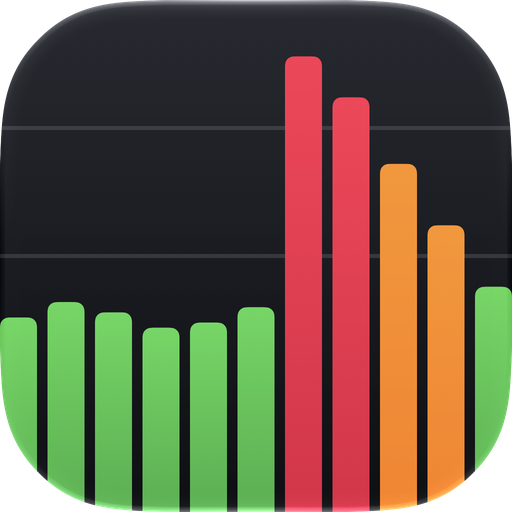
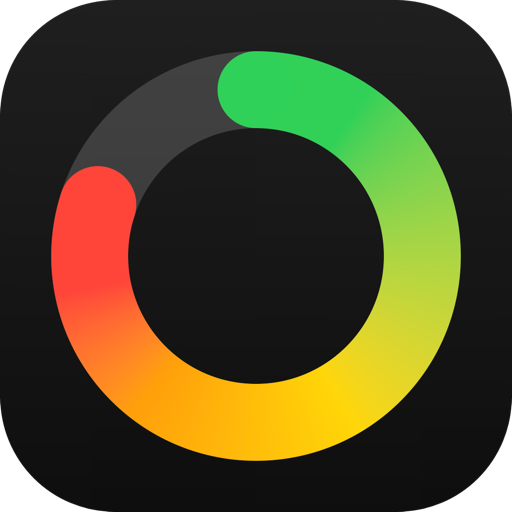
Grafium: новая иконка и скриншоты 1.2 на сайте
- иконка-кольцо из AppIcon.icon: фавиконки, icon-128/512, apple-touch-icon (квадратная, маску даёт iOS)
- og.png пересобран с новой иконкой; ?v=2 в og:image, чтобы соцсети не держали старое превью
- экраны дашборда, Alerts, графика и рабочего стола — из скриншотов App Store 1.2 (Alerts как в Mail)
- в push/stack старая иконка уведомлений заменена новой
- тексты: фильтры и непрочитанные в Alerts, тестовый алерт, кнопка в Пункте управления
- «22 of Grafana’s 25» → «22 of the 25 built-in Grafana»: марка не в притяжательной форме

diff --git a/grafium/index.html b/grafium/index.html
@@ -13,10 +13,10 @@
 	<meta property="og:url" content="https://znhv.dev/grafium/">
 	<meta property="og:title" content="Grafium — Grafana® dashboards & alerts, native on iPhone">
 	<meta property="og:description" content="Every panel drawn natively, read-only and private. Push alerts and widgets with Grafium Pro.">
-	<meta property="og:image" content="https://znhv.dev/grafium/img/og.png">
+	<meta property="og:image" content="https://znhv.dev/grafium/img/og.png?v=2">
 	<meta property="og:image:width" content="1200">
 	<meta property="og:image:height" content="630">
-	<meta property="og:image:alt" content="Grafium on iPhone: a Time Sensitive HighErrorRate alert over the Lock Screen">
+	<meta property="og:image:alt" content="Grafium on iPhone: a Time Sensitive HighErrorRate alert on the Lock Screen">
 	<meta name="twitter:card" content="summary_large_image">
 	<link rel="icon" type="image/png" sizes="32x32" href="/grafium/img/favicon-32.png">
 	<link rel="icon" type="image/png" sizes="64x64" href="/grafium/img/favicon-64.png">
@@ -48,7 +48,7 @@
 				"offers": { "@type": "Offer", "price": "0", "priceCurrency": "USD" },
 				"author": { "@type": "Person", "name": "Boris Zhenikhov", "url": "https://znhv.dev/" }
 			},
-			{"@type": "FAQPage", "@id": "https://znhv.dev/grafium/#faq", "mainEntity": [{"@type": "Question", "name": "Is there a Grafana app for iPhone?", "acceptedAnswer": {"@type": "Answer", "text": "Yes. Grafium is an independent, native iPhone app for Grafana dashboards and alerts, for iOS 26 or later. It connects to the Grafana servers you already run and draws every panel with native iOS charts instead of a web view. It is not made by Grafana Labs."}}, {"@type": "Question", "name": "Does Grafium work with self-hosted Grafana?", "acceptedAnswer": {"@type": "Answer", "text": "Yes, that is what it is built for. Grafium works with Grafana 9 or later that your iPhone can reach over HTTPS with a trusted certificate. Self-signed certificates are not supported."}}, {"@type": "Question", "name": "Can I get Grafana alerts as push notifications on iPhone?", "acceptedAnswer": {"@type": "Answer", "text": "Yes, with Grafium Pro. A firing alert arrives as a Time Sensitive notification, and when it resolves the same notification quietly updates. Push notifications need Grafana 12 or later; the app can set up the Grafium contact point on your server for you."}}, {"@type": "Question", "name": "Are there Grafana widgets for the iPhone Home Screen?", "acceptedAnswer": {"@type": "Answer", "text": "Yes, with Grafium Pro: a panel’s value or chart and your firing alerts on the Home Screen, the Lock Screen and in StandBy, plus a Grafium Alerts button in Control Center. Widgets refresh about every 15–60 minutes, as iOS allows, and show when they were last updated."}}, {"@type": "Question", "name": "Which panel types does Grafium show?", "acceptedAnswer": {"@type": "Answer", "text": "22 of Grafana’s 25 built-in visualizations, including time series, stat, gauge, bar gauge, bar chart, table, heatmap, logs, state timeline, status history, pie chart, geomap and text. A panel type it can’t draw shows its raw data instead."}}, {"@type": "Question", "name": "Will Grafium change anything on my Grafana server?", "acceptedAnswer": {"@type": "Answer", "text": "No. Grafium only reads: it never edits dashboards, panels or alert rules. The one change it can make is the one you ask for in Grafium Pro: creating, updating or removing its own contact point."}}, {"@type": "Question", "name": "How do I sign in to my Grafana?", "acceptedAnswer": {"@type": "Answer", "text": "With an API or service account token, a username and password, LDAP, JWT, an auth proxy, your organization’s SSO page, or anonymously. Credentials are stored in the iOS Keychain. To look around first, tap Try Demo: it opens live dashboards on Grafana Labs’ public demo server."}}, {"@type": "Question", "name": "Is my data private?", "acceptedAnswer": {"@type": "Answer", "text": "The free app has no backend, no account, no analytics and no tracking: requests go straight from your iPhone to your Grafana. Grafium Pro’s push relay stores only push tokens, a random channel ID and your subscription status, and never receives your server’s address, credentials, dashboards or metrics."}}, {"@type": "Question", "name": "How much does Grafium cost?", "acceptedAnswer": {"@type": "Answer", "text": "Grafium is free. Grafium Pro, with instant alerts and widgets, is $3.99 a month with a 1-week free trial or $29.99 a year with a 2-week free trial (US prices)."}}]}
+			{"@type": "FAQPage", "@id": "https://znhv.dev/grafium/#faq", "mainEntity": [{"@type": "Question", "name": "Is there a Grafana app for iPhone?", "acceptedAnswer": {"@type": "Answer", "text": "Yes. Grafium is an independent, native iPhone app for Grafana dashboards and alerts, for iOS 26 or later. It connects to the Grafana servers you already run and draws every panel with native iOS charts instead of a web view. It is not made by Grafana Labs."}}, {"@type": "Question", "name": "Does Grafium work with self-hosted Grafana?", "acceptedAnswer": {"@type": "Answer", "text": "Yes, that is what it is built for. Grafium works with Grafana 9 or later that your iPhone can reach over HTTPS with a trusted certificate. Self-signed certificates are not supported."}}, {"@type": "Question", "name": "Can I get Grafana alerts as push notifications on iPhone?", "acceptedAnswer": {"@type": "Answer", "text": "Yes, with Grafium Pro. A firing alert arrives as a Time Sensitive notification, and when it resolves the same notification quietly updates. Push notifications need Grafana 12 or later; the app can set up the Grafium contact point on your server for you."}}, {"@type": "Question", "name": "Are there Grafana widgets for the iPhone Home Screen?", "acceptedAnswer": {"@type": "Answer", "text": "Yes, with Grafium Pro: a panel’s value or chart and your firing alerts on the Home Screen, the Lock Screen and in StandBy, plus a Grafium Alerts button in Control Center. Widgets refresh about every 15–60 minutes, as iOS allows, and show when they were last updated."}}, {"@type": "Question", "name": "Which panel types does Grafium show?", "acceptedAnswer": {"@type": "Answer", "text": "22 of the 25 built-in Grafana visualizations, including time series, stat, gauge, bar gauge, bar chart, table, heatmap, logs, state timeline, status history, pie chart, geomap and text. A panel type it can’t draw shows its raw data instead."}}, {"@type": "Question", "name": "Will Grafium change anything on my Grafana server?", "acceptedAnswer": {"@type": "Answer", "text": "No. Grafium only reads: it never edits dashboards, panels or alert rules. The one change it can make is the one you ask for in Grafium Pro: creating, updating or removing its own contact point."}}, {"@type": "Question", "name": "How do I sign in to my Grafana?", "acceptedAnswer": {"@type": "Answer", "text": "With an API or service account token, a username and password, LDAP, JWT, an auth proxy, your organization’s SSO page, or anonymously. Credentials are stored in the iOS Keychain. To look around first, tap Try Demo: it opens live dashboards on Grafana Labs’ public demo server."}}, {"@type": "Question", "name": "Is my data private?", "acceptedAnswer": {"@type": "Answer", "text": "The free app has no backend, no account, no analytics and no tracking: requests go straight from your iPhone to your Grafana. Grafium Pro’s push relay stores only push tokens, a random channel ID and your subscription status, and never receives your server’s address, credentials, dashboards or metrics."}}, {"@type": "Question", "name": "How much does Grafium cost?", "acceptedAnswer": {"@type": "Answer", "text": "Grafium is free. Grafium Pro, with instant alerts and widgets, is $3.99 a month with a 1-week free trial or $29.99 a year with a 2-week free trial (US prices)."}}]}
 		]
 	}
 	</script>
@@ -76,7 +76,7 @@
 			<a class="badge" href="https://apps.apple.com/app/id6757076319"><img src="https://toolbox.marketingtools.apple.com/api/v2/badges/download-on-the-app-store/black/en-us" alt="Download on the App Store" width="156" height="52"></a>
 		</div>
 		<div class="stage">
-			<div class="phone"><img src="/grafium/img/dashboard.webp" alt="Grafium showing the Production Overview dashboard: requests, error rate and p99 latency" width="660" height="1434" fetchpriority="high"><img class="over push" src="/grafium/img/push.webp" alt="Time Sensitive notification: HighErrorRate, checkout-api 3.7% of requests fail (SLO 2%)" width="900" height="167" style="left: -18.5%; top: 6.98%; width: 137.0%"></div>
+			<div class="phone"><img src="/grafium/img/dashboard.webp" alt="Grafium showing the Production Overview dashboard: requests by service, requests, error rate and p99 latency" width="660" height="1434" fetchpriority="high"><img class="over push" src="/grafium/img/push.webp" alt="Time Sensitive notification: HighErrorRate, checkout-api 3.7% of requests fail (SLO 2%)" width="900" height="167" style="left: -18.5%; top: 6.98%; width: 137.0%"></div>
 		</div>
 	</section>
 
@@ -85,7 +85,7 @@
 			<div class="head">
 				<span class="eyebrow">The free app</span>
 				<h2>Everything on your dashboards. Nothing in a web view.</h2>
-				<p>Grafium draws 22 of Grafana’s 25 visualizations with native iOS charts, keeping the colors, units and thresholds from your dashboard.</p>
+				<p>Grafium draws 22 of the 25 built-in Grafana visualizations with native iOS charts, keeping the colors, units and thresholds from your dashboard.</p>
 			</div>
 			<div class="trio">
 				<figure>
@@ -94,9 +94,9 @@
 					<p>Open a chart full screen and drag across it to read the time and value under your finger.</p>
 				</figure>
 				<figure>
-					<div class="phone"><img src="/grafium/img/alerts.webp" alt="Firing alerts on Production EU and Production US: Kafka consumer lag, disk filling up, p99 latency, error rate" width="660" height="1434" loading="lazy"></div>
+					<div class="phone"><img src="/grafium/img/alerts.webp" alt="Firing alerts with Platform and Production labels: Kafka consumer lag, disk filling up, p99 latency, error rate, an expiring certificate" width="660" height="1434" loading="lazy"></div>
 					<h3>See what’s firing</h3>
-					<p>Firing and pending rules first, grouped by server, one tap from the panel behind them.</p>
+					<p>Firing and pending rules first, filtered by server, folder or group. New alerts stay marked until you open them.</p>
 				</figure>
 				<figure>
 					<div class="phone"><img src="/grafium/img/signin.webp" alt="Add Server form with the authentication type menu open" width="660" height="1434" loading="lazy"><img class="over" src="/grafium/img/auth-menu.webp" alt="Authentication types: API Token, Username, LDAP, JWT, Auth proxy, None, SSO" width="600" height="753" loading="lazy" style="left: 32%; top: 33.2%; width: 67%"></div>
@@ -118,7 +118,7 @@
 				<article class="card">
 					<span class="eyebrow">Instant alerts</span>
 					<h3>A push the moment an alert fires</h3>
-					<p>Firing alerts arrive as Time Sensitive notifications. When an alert resolves, the same notification quietly updates. Works with Grafana 12 or later.</p>
+					<p>Firing alerts arrive as Time Sensitive notifications. When an alert resolves, the same notification quietly updates. Works with Grafana 12 or later. The app can set up the contact point and send a test alert.</p>
 					<div class="shot bottom">
 						<div class="phone"><img src="/grafium/img/lock.webp" alt="iPhone Lock Screen" width="660" height="1434" loading="lazy"><img class="over" src="/grafium/img/stack.webp" alt="Grafium notifications: HighErrorRate, APILatencyP99High and 7 more" width="900" height="313" loading="lazy" style="left: -2.1%; top: 69%; width: 104.2%"></div>
 					</div>
@@ -126,7 +126,7 @@
 				<article class="card">
 					<span class="eyebrow">Widgets</span>
 					<h3>Your numbers at a glance</h3>
-					<p>A panel’s value or chart and your firing alerts on the Home Screen, the Lock Screen and in StandBy.</p>
+					<p>A panel’s value or chart and your firing alerts on the Home Screen, the Lock Screen and in StandBy, plus an Alerts button in Control Center.</p>
 					<div class="shot top">
 						<div class="phone"><img src="/grafium/img/home.webp" alt="Home Screen with Grafium widgets: Requests 10.1K req/s, p99 latency 1.20 s, Firing 5" width="660" height="1434" loading="lazy"></div>
 					</div>
@@ -147,7 +147,7 @@
 			<details><summary>Does Grafium work with self-hosted Grafana?</summary><p>Yes, that is what it is built for. Grafium works with Grafana 9 or later that your iPhone can reach over HTTPS with a trusted certificate. Self-signed certificates are not supported.</p></details>
 			<details><summary>Can I get Grafana alerts as push notifications on iPhone?</summary><p>Yes, with Grafium Pro. A firing alert arrives as a Time Sensitive notification, and when it resolves the same notification quietly updates. Push notifications need Grafana 12 or later; the app can set up the Grafium contact point on your server for you.</p></details>
 			<details><summary>Are there Grafana widgets for the iPhone Home Screen?</summary><p>Yes, with Grafium Pro: a panel’s value or chart and your firing alerts on the Home Screen, the Lock Screen and in StandBy, plus a Grafium Alerts button in Control Center. Widgets refresh about every 15–60 minutes, as iOS allows, and show when they were last updated.</p></details>
-			<details><summary>Which panel types does Grafium show?</summary><p>22 of Grafana’s 25 built-in visualizations, including time series, stat, gauge, bar gauge, bar chart, table, heatmap, logs, state timeline, status history, pie chart, geomap and text. A panel type it can’t draw shows its raw data instead.</p></details>
+			<details><summary>Which panel types does Grafium show?</summary><p>22 of the 25 built-in Grafana visualizations, including time series, stat, gauge, bar gauge, bar chart, table, heatmap, logs, state timeline, status history, pie chart, geomap and text. A panel type it can’t draw shows its raw data instead.</p></details>
 			<details><summary>Will Grafium change anything on my Grafana server?</summary><p>No. Grafium only reads: it never edits dashboards, panels or alert rules. The one change it can make is the one you ask for in Grafium Pro: creating, updating or removing its own contact point.</p></details>
 			<details><summary>How do I sign in to my Grafana?</summary><p>With an API or service account token, a username and password, LDAP, JWT, an auth proxy, your organization’s SSO page, or anonymously. Credentials are stored in the iOS Keychain. To look around first, tap Try Demo: it opens live dashboards on Grafana Labs’ public demo server.</p></details>
 			<details><summary>Is my data private?</summary><p>The free app has no backend, no account, no analytics and no tracking: requests go straight from your iPhone to your Grafana. Grafium Pro’s push relay stores only push tokens, a random channel ID and your subscription status, and never receives your server’s address, credentials, dashboards or metrics.</p></details>

diff --git a/grafium/privacy.html b/grafium/privacy.html
@@ -12,7 +12,7 @@
 	<meta property="og:site_name" content="Grafium">
 	<meta property="og:url" content="https://znhv.dev/grafium/privacy">
 	<meta property="og:title" content="Grafium Privacy Policy">
-	<meta property="og:image" content="https://znhv.dev/grafium/img/og.png">
+	<meta property="og:image" content="https://znhv.dev/grafium/img/og.png?v=2">
 	<link rel="icon" type="image/png" sizes="32x32" href="/grafium/img/favicon-32.png">
 	<link rel="apple-touch-icon" href="/grafium/img/apple-touch-icon.png">
 	<link rel="stylesheet" href="/grafium/site.css">

diff --git a/grafium/terms.html b/grafium/terms.html
@@ -12,7 +12,7 @@
 	<meta property="og:site_name" content="Grafium">
 	<meta property="og:url" content="https://znhv.dev/grafium/terms">
 	<meta property="og:title" content="Grafium Terms of Use">
-	<meta property="og:image" content="https://znhv.dev/grafium/img/og.png">
+	<meta property="og:image" content="https://znhv.dev/grafium/img/og.png?v=2">
 	<link rel="icon" type="image/png" sizes="32x32" href="/grafium/img/favicon-32.png">
 	<link rel="apple-touch-icon" href="/grafium/img/apple-touch-icon.png">
 	<link rel="stylesheet" href="/grafium/site.css">
